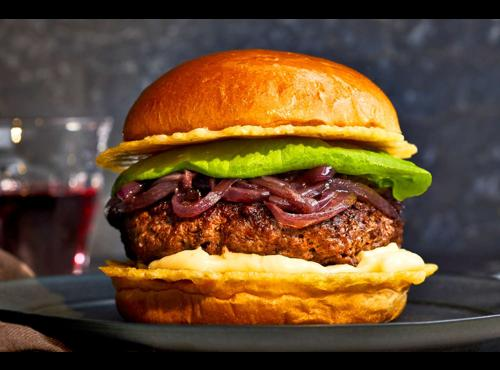
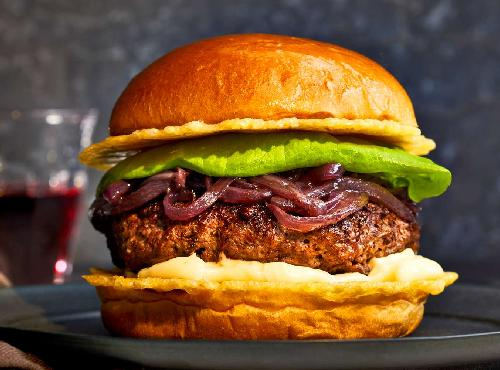
01-Dec-2024

diff --git a/static/templates/catalog.html b/static/templates/catalog.html
@@ -27,7 +27,7 @@
           <!-- Cart items will be dynamically added here -->
         </ul>
         <p>Total: $0</p>
-        <input type="text" placeholder="Enter Your Phone Number" id="customer_phone_number" required>
+        <input type="text" placeholder="Enter a Valid Email Address" id="customer_phone_number" required>
         <input type="hidden" id="key" value="{{ key }}">
         <input type="hidden" id="table_no" value="{{ table_no }}">
         <button class="submit-order" onclick="return confirmDelete()">Submit order</button>
@@ -156,28 +156,7 @@
           console.error('Error:', error);
         });
 
-      // Check if Geolocation API is available
-      if ('geolocation' in navigator) {
-        // Request user's permission to access location
-        navigator.geolocation.getCurrentPosition(
-          function (position) {
-            // Callback function on successful retrieval of location
-            var latitude = position.coords.latitude;
-            var longitude = position.coords.longitude;
-
-            // Use the latitude and longitude as needed
-            console.log('Latitude: ' + latitude);
-            console.log('Longitude: ' + longitude);
-          },
-          function (error) {
-            // Callback function on error
-            console.log('Error occurred. Error code: ' + error.code + '. Error message: ' + error.message);
-          }
-        );
-      } else {
-        // Geolocation API is not supported
-        console.log('Geolocation is not supported by this browser.');
-      }
+      
     });
 
     // Function to retrieve a specific cookie value

diff --git a/static/templates/components/profile_food_card.html b/static/templates/components/profile_food_card.html
@@ -31,7 +31,7 @@
               {% csrf_token %}
               <input type="hidden" name="product_id" value="{{temp.index}}">
               <input type="hidden" name="form_type" value="identifire">
-              <button type="submit" class="submit-button_delete" onclick="return confirmDelete('{{temp.food_title}}')">Delete Food</button>
+              <button type="submit" class="submit-button_delete" onclick="return confirmDelete('{{temp.index}}')">Delete Food</button>
           </form>
       </div>
       </div>

diff --git a/foodShop/views.py b/foodShop/views.py
@@ -12,7 +12,7 @@ from django.shortcuts import render, get_object_or_404
 import json
 from django.http import JsonResponse
 from django.core.files.storage import default_storage
-from PIL import Image
+from PIL import Image, ImageOps
 from io import BytesIO
 from datetime import datetime, timedelta
 # Create your views here.
@@ -33,7 +33,10 @@ def profile(request):
                 food_items_by_category[category] = []
             food_items_by_category[category].append(food_item)
 
-        n=int(profile_data.number_of_table)
+        if profile_data.number_of_table is not None:
+            n = int(profile_data.number_of_table)
+        else:
+            n=0
         url_list=[]
         i=1
         while(i<=n):
@@ -170,44 +173,54 @@ def edit_profile(request):
 #     return img_io
 
 def resize_image(image_file):
-    # image = Image.open(image_file)
-    # image = image.resize((200, 200))  # Adjust width and height as needed
-    # return image
-
     image = Image.open(image_file)
     
-    # Get the original image's aspect ratio
-    width, height = image.size
-   
     # Desired max width and height based on CSS
     desired_width = 500
     desired_height = 370
     
-    # Aspect ratio of the original image
-    aspect_ratio = width / height
+    # Resize the image while maintaining its aspect ratio
+    image = ImageOps.fit(image, (desired_width, desired_height), method=0, bleed=0.0, centering=(0.5, 0.5))
     
-    # Resize while maintaining aspect ratio
-    if aspect_ratio >= 1:  # Landscape or square image
-        # Resize width to 250px, height will scale proportionally
-        new_width = desired_width
-        new_height = int(desired_width / aspect_ratio)
-    else:  # Portrait image
-        # Resize height to 295px, width will scale proportionally
-        new_height = desired_height
-        new_width = int(desired_height * aspect_ratio)
+    return image
+    # image = Image.open(image_file)
+    # image = image.resize((200, 200))  # Adjust width and height as needed
+    # return image
+
+    # image = Image.open(image_file)
     
-    # Resize the image
-    resized_image = image.resize((new_width, new_height))
+    # # Get the original image's aspect ratio
+    # width, height = image.size
+   
+    # # Desired max width and height based on CSS
+    # desired_width = 500
+    # desired_height = 370
     
-    # Now crop to desired dimensions (250px x 295px)
-    left = (new_width - desired_width) // 2
-    top = (new_height - desired_height) // 2
-    right = left + desired_width
-    bottom = top + desired_height
+    # # Aspect ratio of the original image
+    # aspect_ratio = width / height
     
-    cropped_image = resized_image.crop((left, top, right, bottom))
+    # # Resize while maintaining aspect ratio
+    # if aspect_ratio >= 1:  # Landscape or square image
+    #     # Resize width to 250px, height will scale proportionally
+    #     new_width = desired_width
+    #     new_height = int(desired_width / aspect_ratio)
+    # else:  # Portrait image
+    #     # Resize height to 295px, width will scale proportionally
+    #     new_height = desired_height
+    #     new_width = int(desired_height * aspect_ratio)
     
-    return cropped_image
+    # # Resize the image
+    # resized_image = image.resize((new_width, new_height))
+    
+    # # Now crop to desired dimensions (250px x 295px)
+    # left = (new_width - desired_width) // 2
+    # top = (new_height - desired_height) // 2
+    # right = left + desired_width
+    # bottom = top + desired_height
+    
+    # cropped_image = resized_image.crop((left, top, right, bottom))
+    
+    # return cropped_image
 
 def insert_food(request):
     if request.user.is_authenticated:
@@ -408,7 +421,7 @@ def delete_food(request):
         pk=Profile.objects.get(user=request.user)
         product_id=request.POST['product_id']
         food_list=pk.food_list
-        food=find_dictionary_by_data(food_list, "food_title", product_id)
+        food=find_dictionary_by_data(food_list, "index", int(product_id))
         
                     # Delete the previous image from storage
         default_storage.delete(food['food_image'])
